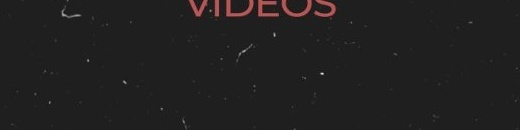
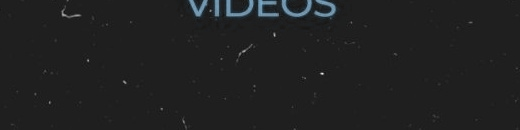
Change background watermark from crimson to luminous Luna blue across all repeating tiles and overlays

Changed region(s): [[0.3385, 0.0, 0.6462, 0.1538]]

diff --git a/css/style.css b/css/style.css
@@ -75,7 +75,7 @@ html {
 }
 
 /* ==========================================================================
-   CHARCOAL WASHED BLACK PAPER BACKGROUND (TONED DOWN GREYS & WHITES)
+   LUNA BLUE CINEMATIC BACKGROUND
    ========================================================================== */
 body {
   font-family: var(--font-body);
@@ -103,12 +103,12 @@ body::before {
   background-image: url('../assets/art_signs_overlay.png');
   background-repeat: repeat;
   background-size: 1200px 1200px;
-  opacity: 0.15;
+  opacity: 0.22;
   pointer-events: none;
   z-index: 998;
 }
 
-/* Layer 2: Film Dust & Scratches Texture Overlay */
+/* Layer 2: Film Dust & Blue Watermark Stencil Texture Overlay */
 body::after {
   content: '';
   position: fixed;
@@ -119,7 +119,7 @@ body::after {
   background-image: url('../assets/dust_pattern.jpg');
   background-repeat: repeat;
   background-size: 500px auto;
-  opacity: 0.08;
+  opacity: 0.22;
   mix-blend-mode: screen;
   pointer-events: none;
   z-index: 999;
@@ -435,7 +435,7 @@ button {
 }
 
 /* ==========================================================================
-   HERO SECTION (Black Paper with Distressed Red Spray & Cutout)
+   HERO SECTION (Frosted Glass with Luminous Blue Glow & Details)
    ========================================================================== */
 .hero-section {
   position: relative;
@@ -1898,8 +1898,6 @@ button {
   background: linear-gradient(180deg, var(--palette-c1) 0%, var(--palette-c3) 100%);
   transform: translateY(-2px);
   box-shadow: 0 8px 25px var(--accent-red-glow);
-}
-  box-shadow: 0 8px 25px rgba(235, 94, 101, 0.5);
 }
 
 /* Social Links & Direct Channels */
